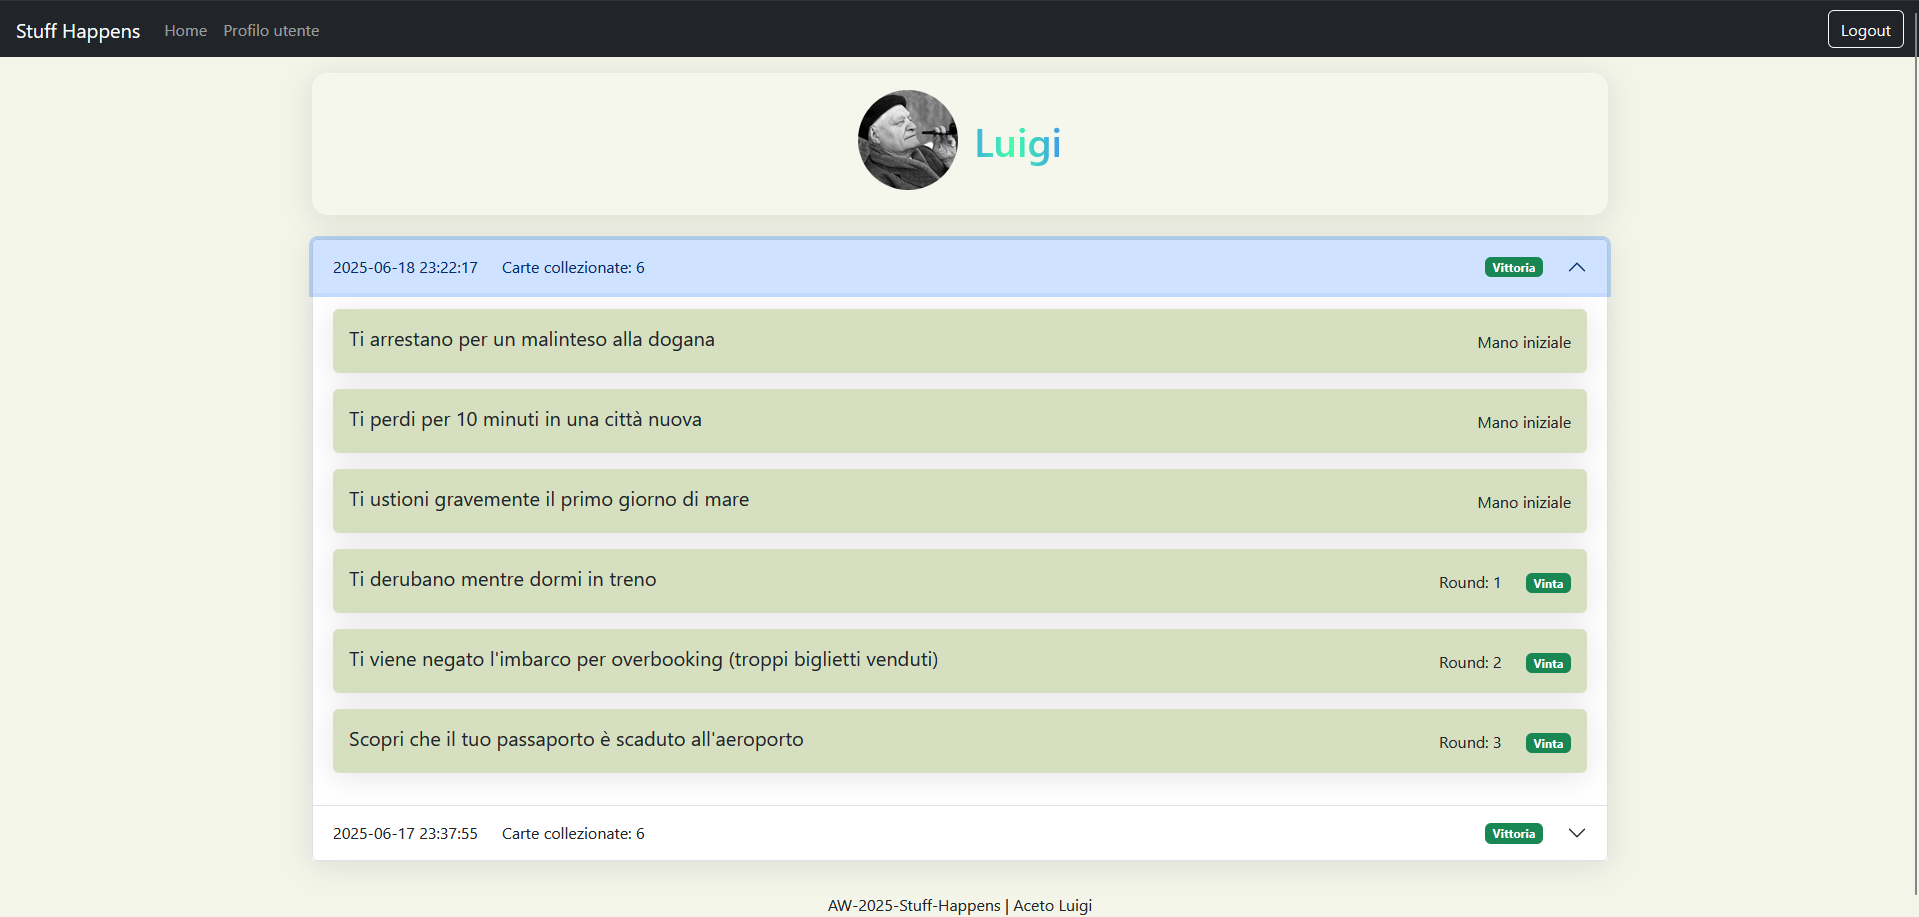
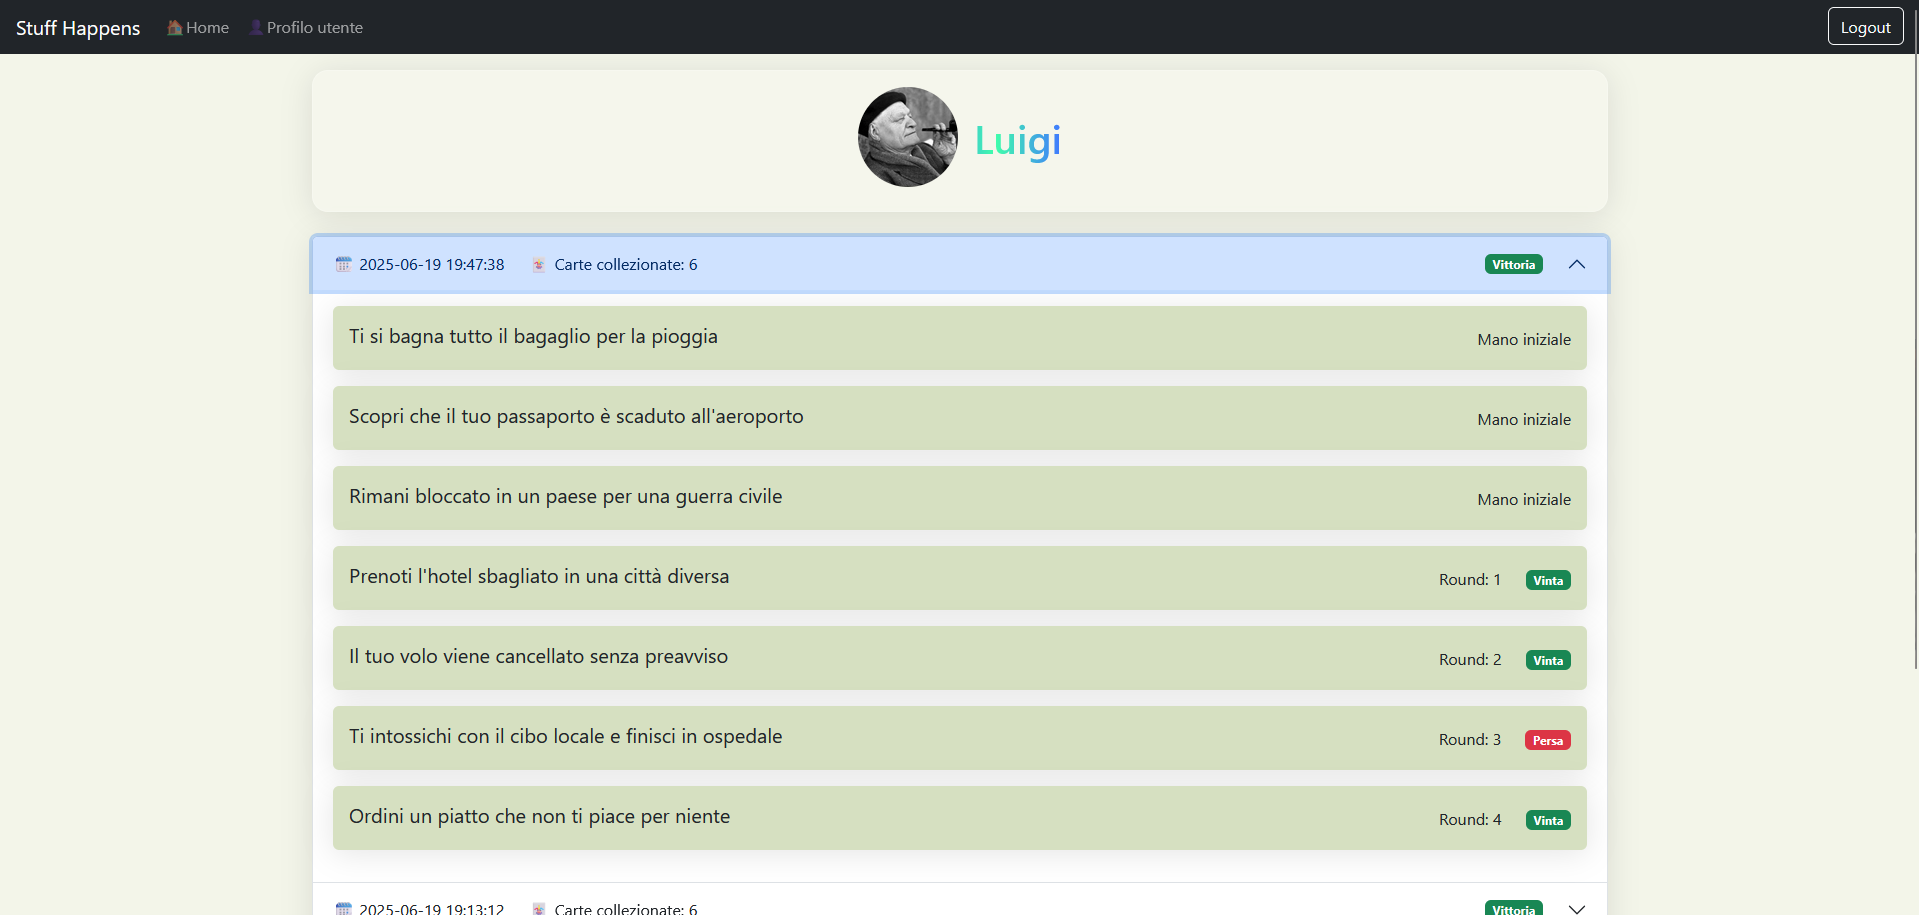
Add: nuova scritta di vittoria/sconfitta e aggiunta qualche emoji

diff --git a/client/src/components/MatchEnd.jsx b/client/src/components/MatchEnd.jsx
@@ -3,6 +3,7 @@ import { useNavigate, useLocation } from 'react-router';
 import { Hand } from './Cards';
 import { Container, Alert, Button, Spinner } from 'react-bootstrap';
 import API from '../API.mjs';
+import SplitText from './reactbits_components/SplitText.jsx';
 
 function MatchEnd({ loggedIn }) {
   const location = useLocation();
@@ -19,7 +20,7 @@ function MatchEnd({ loggedIn }) {
   }, []);
 
   // la callback è praticamente identica a quella di MatchStart, purtroppo
-  // non è possibile passarla da matchStart a matchEnd poichè si trovano
+  // non è possibile passarla da MatchStart a MatchEnd poichè si trovano
   // in due route separate.
   const handleBegin = async () => {
     setLoading(true);
@@ -46,17 +47,28 @@ function MatchEnd({ loggedIn }) {
       {/* all'inizio del rendering matchInfo è null quindi darebbe errore */}
       {matchInfo &&
       <>
-      <Alert className="w-50 text-center mx-auto" variant={matchInfo.match_result.type}>{matchInfo.match_result.msg}</Alert>  
-      <h3 className='text-center mb-4'>
-        Carte raccolte durante la partita:
-      </h3>
-      <Hand situations={matchInfo.collected_situations} />
-      {!loading && 
-        <Button variant="success" size="lg" className="w-25 py-3 mb-3 mt-5" onClick={handleBegin}>
-          Gioca una nuova partita
-        </Button>}
-      {loading && 
-        <Spinner animation="border" variant="success"/>}
+        <SplitText
+          text={`${matchInfo.match_result.msg}`}
+          className="text-2xl font-semibold text-center fs-1"
+          delay={80}
+          duration={1}
+          ease="power3.out"
+          splitType="words"
+          from={{ opacity: 0, y: 40 }}
+          to={{ opacity: 1, y: 0 }}
+          textAlign="center"
+          color = {matchInfo.match_result.type === 'success' ? '#4bb52d' : '#ed4f2f'}
+        />
+        <h4 className='text-center mb-4 mt-3'>
+          Carte raccolte durante la partita:
+        </h4>
+        <Hand situations={matchInfo.collected_situations} />
+        {!loading && 
+          <Button variant="success" size="lg" className="py-3 mb-3 mt-5" style={{ width: "300px" }} onClick={handleBegin}>
+            Inizia una nuova partita
+          </Button>}
+        {loading && 
+          <Spinner animation="border" variant="success"/>}
       </>}
     </Container>
   )

diff --git a/client/src/components/MatchRulings.jsx b/client/src/components/MatchRulings.jsx
@@ -48,16 +48,16 @@ function MatchStart({loggedIn}) {
           {message.msg}
         </Alert>}
       <Container className='glass-card'>
-        <h1 className='mt-3 text-center'>Regolamento</h1>  
+        <h2 className='mt-3 text-center'>📖Regolamento</h2>  
         <ul>
           <li>Inizierai con 3 carte in mano di cui conoscerai l'indice di sfortuna</li>
-          <li>Ogni round ti verrà proposta una nuova carta sul tavolo nascondendo l'indice di sfortuna</li>
-          <li>Avrai 30 secondi per indovinarne la posizione, tra le carte della tua mano</li>
+          <li>Ogni round ti verrà proposta una nuova carta sul tavolo (nascondendo il suo indice di sfortuna)</li>
+          <li>Avrai 30 secondi per posizionare la carta nella tua mano in ordine di indice di sfortuna</li>
           <li>Se non selezioni nulla perdi il round automaticamente, altrimenti se indovini guadagni la carta</li>
-          <li>Lo scopo del gioco è di arrivare a 6 carte in mano</li>
+          <li>Lo scopo del gioco è arrivare ad avere 6 carte in mano</li>
           <li>Alla 3a carta non indovinata perdi la partita</li>
-          {!loggedIn && <li>Ricordati di *eseguire il login* per avere accesso completo all'app, altrimenti potrai solo provare il gioco 
-            tramite partite demo di un solo round :)</li>}
+          {!loggedIn && <li>Ricordati di <strong>eseguire il login</strong> per avere accesso completo all'app, altrimenti potrai solo provare il gioco 
+            tramite partite demo di un unico round 😖</li>}
         </ul>
       </Container>
       <h3 className='text-center mt-5'>Buon divertimento e buona (s)fortuna !</h3>
@@ -69,7 +69,7 @@ function MatchStart({loggedIn}) {
             duration={1}
             ease="power3.out"
           >
-            <Button variant="success" size="lg" className="w-25 py-3 mb-3 mt-4 mx-auto basic-shadow" onClick={handleBegin}>
+            <Button variant="success" size="lg" className="py-3 mb-3 mt-4 mx-auto basic-shadow" style={{ width: "200px" }} onClick={handleBegin}>
               Inizia
             </Button>
           </AnimatedContent>}

diff --git a/client/src/components/MatchGameplay.jsx b/client/src/components/MatchGameplay.jsx
@@ -88,9 +88,9 @@ function MatchGameplay() {
     }
     
     if (guessResult.match_state !== 'in_progress') {
-      let end_message = {type: 'success', msg: 'Partita vinta!'};
+      let end_message = {type: 'success', msg: '🏆Partita vinta!🏆'};
       if (guessResult.match_state === 'lost') {
-        end_message = {type: 'danger', msg: 'Partita persa!'};
+        end_message = {type: 'danger', msg: '❌Partita persa!❌'};
       }
       // per l'ultimo round non serve mostrare il risultato della guess:
       // - se la partita è vinta, allora l'ultima carta è stata indovinata
@@ -131,7 +131,7 @@ function MatchGameplay() {
       </Container>
       {message && !loading &&
         <div className="text-center mt-5">
-          <Button variant="success" size="lg" className="w-25 py-3 mb-3 basic-shadow" onClick={handleNextCard}>
+          <Button variant="success" size="lg" className="py-3 mb-3 basic-shadow" style={{ width: "300px" }} onClick={handleNextCard}>
             Prossima carta
           </Button>
         </div>}

diff --git a/client/src/components/Home.jsx b/client/src/components/Home.jsx
@@ -19,12 +19,12 @@ function HomeMenu() {
             textAlign="center"
           />
           <p className="lead mb-5">
-            Scopri fino a 50 situazioni in cui potresti trovarti durante una
-            vacanza e prova a indovinare le più assurde e sfortunate.
+            🏖 Scopri fino a 50 situazioni in cui potresti trovarti durante una
+            vacanza e prova a indovinare le più assurde e sfortunate 🌴
           </p>
           <Row className="justify-content-center">
             <Col md={6} lg={4}>
-              <Button variant="success" size="lg" className="w-100 py-3 mb-3 basic-shadow" as={Link} to={`/match/new`}>
+              <Button variant="success" size="lg" className="w-75 py-3 mb-3 basic-shadow" as={Link} to={`/match/new`}>
                 Gioca una partita
               </Button>
             </Col>

diff --git a/client/src/components/NavHeader.jsx b/client/src/components/NavHeader.jsx
@@ -8,8 +8,8 @@ function NavHeader({user, loggedIn, handleLogout}) {
     <Navbar bg="dark" data-bs-theme="dark">
       <Navbar.Brand className='ms-3'>Stuff Happens</Navbar.Brand>
       <Nav className="me-auto">
-        <Nav.Link as={Link} to="/">Home</Nav.Link>
-        {loggedIn && <Nav.Link as={Link} to={`/user/${user.id}/profile`}>Profilo utente</Nav.Link>}
+        <Nav.Link as={Link} to="/">🏠Home</Nav.Link>
+        {loggedIn && <Nav.Link as={Link} to={`/user/${user.id}/profile`}>👤Profilo utente</Nav.Link>}
       </Nav>
       {loggedIn ? 
         <LogoutButton logout={handleLogout} /> :

diff --git a/client/src/components/UserInfo.jsx b/client/src/components/UserInfo.jsx
@@ -77,8 +77,8 @@ function Match({match}) {
       <Accordion.Header>
         <Col>
           {/* uso span per non andare a capo, come invece fa div (span è per elementi in-line) */}
-          <span className="me-4">{match.date}</span>
-          <span>Carte collezionate: {match.card_collected}</span>
+          <span className="me-4">🗓 {match.date}</span>
+          <span>🃏 Carte collezionate: {match.card_collected}</span>
         </Col>
         <Col className="text-end me-4">
           <Badge bg={match.match_result === 'Vittoria' ? 'success' : 'danger'}>

diff --git a/client/src/components/Cards.jsx b/client/src/components/Cards.jsx
@@ -92,7 +92,7 @@ function InsertSlot({ index, selected, onClick }) {
         borderStyle: 'dashed',
         fontWeight: selected ? 'bold' : 'normal',
       }}
-      title={`Inserisci alla posizione ${index}`}
+      title={`Inserisci nella posizione ${index}`}
     >
       {index}
     </Button>

diff --git a/client/src/components/reactbits_components/SplitText.jsx b/client/src/components/reactbits_components/SplitText.jsx
@@ -36,6 +36,8 @@ const SplitText = ({
 
   onLetterAnimationComplete,
 
+  color
+
 }) => {
 
   const ref = useRef(null);
@@ -208,6 +210,7 @@ const SplitText = ({
 
         wordWrap: "break-word",
 
+        color: color
       }}
 
     >

diff --git a/README.md b/README.md
@@ -172,7 +172,6 @@ Response body:
 }
 ```
 
-
 ### __Check sessione attiva__
 URL: `/api/sessions/current`
 
@@ -213,37 +212,37 @@ Response body: Nessuno
 | `situation` |
 |-------------|
 | **id** (int) |
-| name (string) |
+| name (text) |
 | misfortune_index (real) |
-| img_path (string) |
+| img_path (text) |
 
 | `match` |
 |---------|
 | **id** (int) |
 | user_id (int) |
-| result (string) |
+| result (text) |
 | round (int) |
-| date (string) |
-| terminated (string) |
+| date (text) |
+| terminated (text) |
 
 | `situation_in_match` |
 |----------------------|
 | **situation_id** (int) |
 | **match_id** (int) |
 | round (int) |
-| result (string) |
-| timestamp (string) |
+| result (text) |
+| timestamp (text) |
 
 | `user` |
 |--------|
 | **id** (int) |
-| name (string) |
-| email (string) |
-| password (string) |
-| salt (string) |
-| profile_pic (string) |
+| name (text) |
+| email (text) |
+| password (text) |
+| salt (text) |
+| profile_pic (text) |
 
-Nota: la tabella situation_in_match rappresenta la relazione che lega ogni match alle carte presenti in esso.
+Nota: la tabella `situation_in_match` rappresenta la relazione che lega ogni match alle carte presenti in esso.
 
 ## Main React Components
 
@@ -252,7 +251,7 @@ Nota: la tabella situation_in_match rappresenta la relazione che lega ogni match
 - `GuessHand` in *Cards.jsx* -> renderizza un gruppo di carte (situazioni) insieme a dei placeholder per selezionare la posizione in cui inserire la nuova carta, inoltre renderizza un bottone usato per confermare la scelta
 - `CountDownTimer` in *MatchGameplay.jsx* -> renderizza un timer di 30s che forza il giocatore a fare una scelta in questo lasso di tempo. Se il giocatore non conferma la scelta entro 30s il round è automaticamente perso
 - `DefaultLayout` in *DefaultLayout.jsx* -> renderizza il default layout dell'app che comprende la navbar, messaggio di benvenuto e il footer
-- `HomeMenu` in *Home.jsx* -> renderizza la pagina home dell'app, contiene il tasto per spostarsi nella pagina di rulings, per iniziare a giocare, e qualche scritta 
+- `HomeMenu` in *Home.jsx* -> renderizza la pagina home dell'app, contiene il tasto per spostarsi nella pagina di rulings (dove poi si può iniziare a giocare), e qualche scritta 
 - `MatchRulings` in *MatchRulings.jsx* -> renderizza la pagina per iniziare effettivamente una partita. Comprende il regolamento e il tasto per iniziare un match (demo o non)
 - `MatchGameplay` in *MatchGameplay.jsx* -> renderizza la partita vera e propria che comprende timer, mano e carta sul tavolo nonchè messaggi che avvisano sul risultato della guess
 - `MatchEnd` in *MatchEnd.jsx* -> renderizza la pagina di fine match con carte collezionate e messaggio di vittoria/sconfitta, nonchè tasto per giocare una nuova partita
